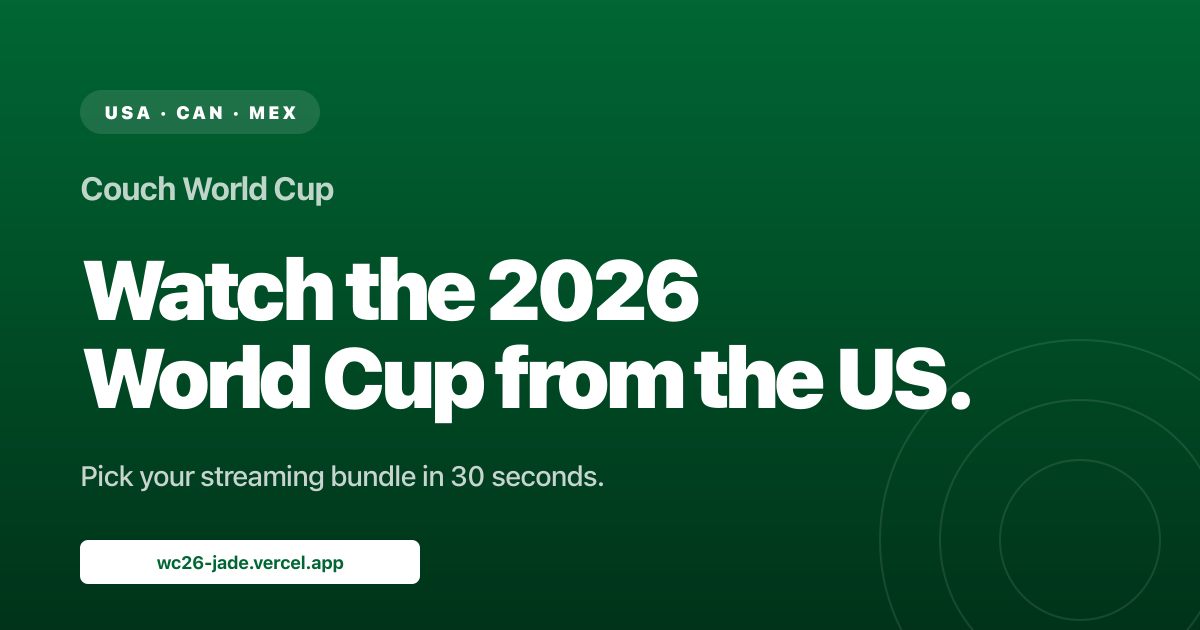
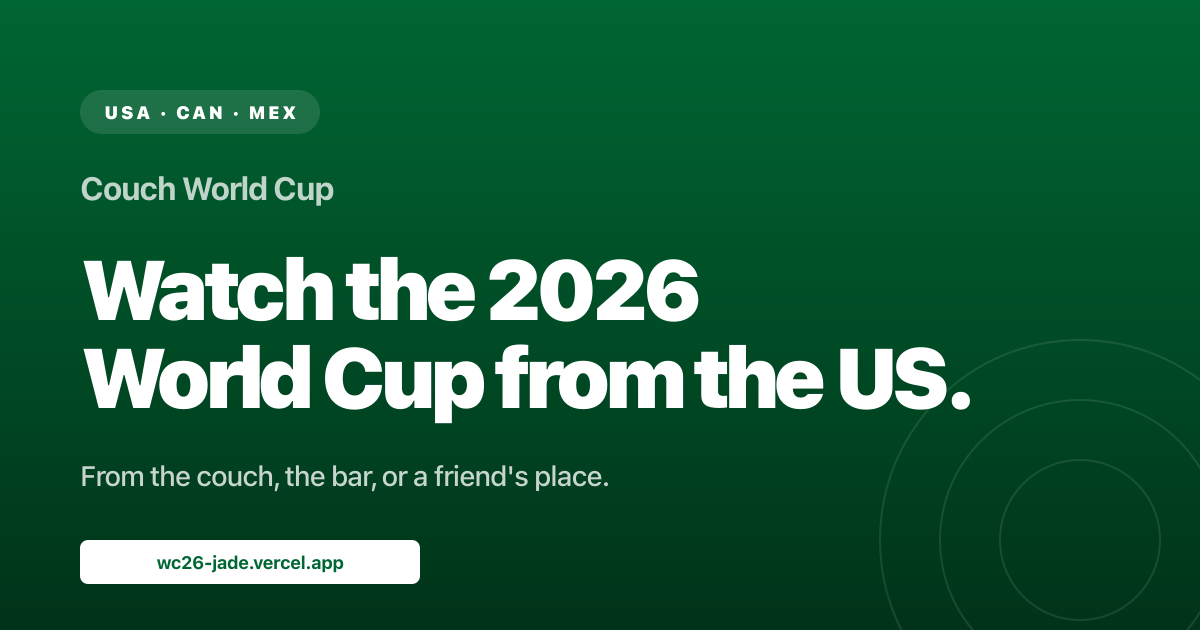
Sharpen brand voice: positioning copy + casual section headings
Brand positioning crystallized: the site is for every fan watching the 2026
World Cup from somewhere that isn't the stadium. Applied across hero lede,
meta description, og:description, footer (all 3 pages), and the OG image
subline.

Section headings renamed to drop PM/dev jargon in favor of casual
fan-friendly language:
- "Quick picks" → "Cheat sheet"
- "Pick by use case" → "Find your fit"
- "Important caveats" → "Heads up"

OG PNG regenerated from updated svg.

Changed region(s): [[0.0617, 0.7238, 0.5242, 0.7841]]

diff --git a/index.html b/index.html
@@ -4,11 +4,11 @@
   <meta charset="UTF-8">
   <meta name="viewport" content="width=device-width, initial-scale=1.0">
   <title>Couch World Cup: Watch the 2026 World Cup from the US</title>
-  <meta name="description" content="Pick your 2026 FIFA World Cup streaming bundle in 30 seconds. Free quiz, no signup. Plus the full comparison across FOX One, Peacock, Sling, Fubo, YouTube TV, Hulu, Tubi, and OTA antenna.">
+  <meta name="description" content="For every fan watching the 2026 FIFA World Cup from the couch, the bar, or a friend's place. Free 30-second quiz picks your streaming bundle. Full comparison across FOX One, Peacock, Sling, Fubo, YouTube TV, Hulu, Tubi, and OTA antenna.">
   <meta name="theme-color" content="#006633">
 
   <meta property="og:title" content="Couch World Cup: Watch the 2026 World Cup from the US">
-  <meta property="og:description" content="Pick your streaming bundle in 30 seconds. Free quiz, no signup, no tracking.">
+  <meta property="og:description" content="Every fan watching from the couch, the bar, or a friend's place. We've got your World Cup.">
   <meta property="og:image" content="/og.png">
   <meta property="og:type" content="website">
   <meta property="og:url" content="https://wc26-jade.vercel.app/">
@@ -39,7 +39,7 @@
         <span class="countdown" id="countdown">June 11 to July 19, 2026</span>
       </div>
       <h1>Watch the 2026 World Cup from the US.</h1>
-      <p class="lede">Pick your streaming bundle in 30 seconds. Or <a href="#comparison">scroll to the full comparison</a>.</p>
+      <p class="lede">Every fan watching from the couch, the bar, or a friend's place. We've got your World Cup.</p>
     </section>
 
     <section class="quiz-section" aria-label="Streaming picker">
@@ -120,7 +120,7 @@
     </section>
 
     <section id="tldr" class="reference">
-      <h3>Quick picks</h3>
+      <h3>Cheat sheet</h3>
       <ul>
         <li><strong>English-only, cheapest:</strong> OTA antenna (FOX is free over the air in most US markets) plus Tubi for the opener.</li>
         <li><strong>Spanish-preferred:</strong> Telemundo OTA (free) or Peacock Premium for Telemundo streaming.</li>
@@ -233,7 +233,7 @@
     </section>
 
     <section id="picker" class="reference">
-      <h3>Pick by use case</h3>
+      <h3>Find your fit</h3>
 
       <div class="use-case">
         <p class="q">You want to watch the USA opener (June 12) and not much else.</p>
@@ -267,7 +267,7 @@
     </section>
 
     <section id="caveats" class="reference">
-      <h3>Important caveats</h3>
+      <h3>Heads up</h3>
       <div class="callout">
         <ul>
           <li><strong>Pricing changes monthly.</strong> All numbers above are approximate as of May 23, 2026. Verify on each provider's site before subscribing.</li>
@@ -286,7 +286,7 @@
         <span class="trust-pill">✓ No signup</span>
         <span class="trust-pill">✓ No tracking</span>
       </div>
-      <p>Couch World Cup is a free utility site. No accounts, no ads, no affiliate links. All prices and feature notes are approximate and change often. Verify before subscribing.</p>
+      <p>Couch World Cup is for every fan watching from the couch, the bar, or a friend's place. Free, no signup, no tracking. All prices and feature notes are approximate, so verify before subscribing.</p>
       <p>Have a watch party to add? <a href="/watch-parties">Suggest one here</a> once that page is live.</p>
     </div>
   </footer>

diff --git a/schedule.html b/schedule.html
@@ -4,7 +4,7 @@
   <meta charset="UTF-8">
   <meta name="viewport" content="width=device-width, initial-scale=1.0">
   <title>Schedule: Couch World Cup</title>
-  <meta name="description" content="The full 104-match 2026 World Cup schedule in your local time zone. Coming soon.">
+  <meta name="description" content="The full 104-match 2026 World Cup schedule in your local time zone. For every fan watching from the couch, the bar, or a friend's place. Coming soon.">
   <meta name="theme-color" content="#006633">
   <link rel="icon" type="image/svg+xml" href="/favicon.svg">
   <link rel="stylesheet" href="/styles.css">
@@ -34,7 +34,7 @@
 
   <footer>
     <div class="container">
-      <p>Couch World Cup is a free utility site. No accounts, no ads, no affiliate links.</p>
+      <p>Couch World Cup is for every fan watching from the couch, the bar, or a friend's place. Free, no signup, no tracking.</p>
     </div>
   </footer>
 </body>

diff --git a/watch-parties.html b/watch-parties.html
@@ -4,7 +4,7 @@
   <meta charset="UTF-8">
   <meta name="viewport" content="width=device-width, initial-scale=1.0">
   <title>Watch parties: Couch World Cup</title>
-  <meta name="description" content="Country-specific 2026 World Cup watch parties and bars in NYC, LA, SF, Dallas, Miami, Houston, and Atlanta. Coming soon.">
+  <meta name="description" content="Country-specific 2026 World Cup watch parties and bars in NYC, LA, SF, Dallas, Miami, Houston, and Atlanta. For every fan watching from the couch, the bar, or a friend's place. Coming soon.">
   <meta name="theme-color" content="#006633">
   <link rel="icon" type="image/svg+xml" href="/favicon.svg">
   <link rel="stylesheet" href="/styles.css">
@@ -34,7 +34,7 @@
 
   <footer>
     <div class="container">
-      <p>Couch World Cup is a free utility site. No accounts, no ads, no affiliate links.</p>
+      <p>Couch World Cup is for every fan watching from the couch, the bar, or a friend's place. Free, no signup, no tracking.</p>
     </div>
   </footer>
 </body>

diff --git a/content/streaming-comparison.md b/content/streaming-comparison.md
@@ -8,7 +8,7 @@
 
 The 2026 World Cup runs **June 11 to July 19, 2026** with 104 matches across the US, Canada, and Mexico. You have more streaming options than any prior World Cup, and the choice depends on three things: which language you want, whether you care about watching two matches at the same time, and how much you want to spend.
 
-## Quick picks
+## Cheat sheet
 
 - **English-only, cheapest:** OTA antenna (FOX is free over the air for most US markets) plus Tubi for the opener.
 - **Spanish-preferred:** Telemundo OTA (free) or Peacock Premium for Telemundo streaming.
@@ -29,7 +29,7 @@ The 2026 World Cup runs **June 11 to July 19, 2026** with 104 matches across the
 | **YouTube TV** | Yes | Yes | Yes (Telemundo channel) | Yes (4-stream multi-view on TV app) | Yes for select matches | ~$83 | Strong picture quality, multi-view if you watch on TV (not browser) |
 | **Fubo** | Yes | Yes | Yes (Telemundo channel) | **Yes (customizable 4-game multi-view)** | Yes for select matches | ~$80 to $100 depending on tier | Hardcore fan who wants to watch multiple group-stage matches simultaneously |
 
-## Pick by use case
+## Find your fit
 
 **You want to watch the USA opener (June 12) and not much else.**
 OTA antenna for free, or Tubi if you're on a laptop. Don't subscribe to anything monthly.
@@ -49,7 +49,7 @@ This is the gap. US-based streaming bundles do not surface Bengali, Hindi, Arabi
 **You're trying to follow USA + your country of origin at the same time.**
 A combination tends to work better than picking one service. Common pairing: OTA antenna for FOX matches + Peacock Premium for Telemundo's Spanish-language schedule + Fubo or YouTube TV for the simultaneous-match days. Total cost ~$20-100 depending on whether you take Fubo only for July.
 
-## Important caveats
+## Heads up
 
 - **Pricing changes monthly.** All numbers above are approximate as of 2026-05-23. Verify on each provider's site before subscribing.
 - **FOX One is new and the pricing has not been published.** This is the wildcard — if FOX One ends up cheap enough, it could undercut Sling for English-only fans.